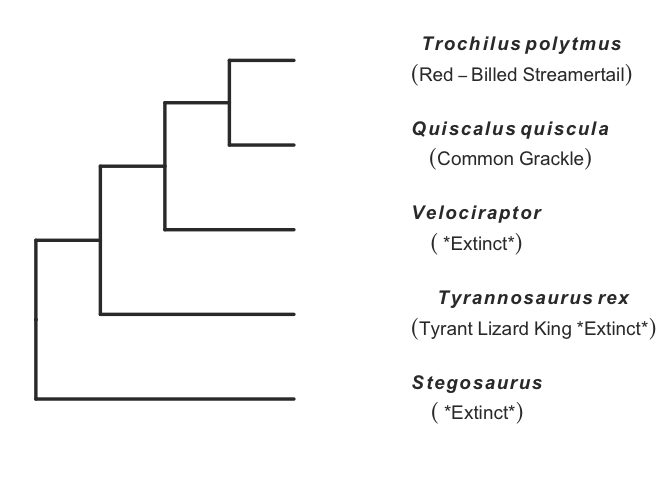
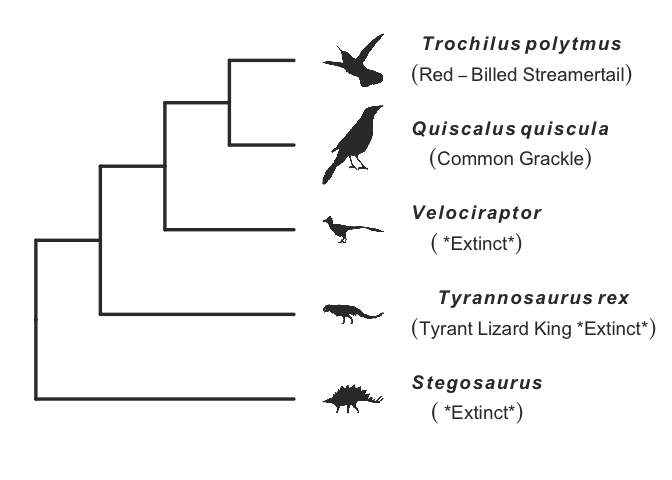
jfjsdfkl

diff --git a/docs/index.html b/docs/index.html
@@ -73,30 +73,45 @@
 <a href="#galacticedtools" class="anchor"></a>galacticEdTools</h1></div>
 <!-- badges: start -->
 
-<p>GalacticEdTools is an <a href="https://www.r-project.org/"><img src="reference/figures/Rlogo.svg" alt="R-logo" width="24px" height="auto"></a> package to support K-16 education and scicomm. Largely, these are functions developed to support lessons created by <a href="www.galacticpolymath.com">Galactic Polymath Education Studio</a>, and have been made available to the R community. Functions do a variety of things, from making it easy to generate a phylogeny that’s ready for biology presentations in minutes to turning any ggplot graph into a fun puzzle by enciphering the graph labels. There’s lots more to come!</p>
+<p>GalacticEdTools is an <a href="https://www.r-project.org/"><img src="reference/figures/Rlogo.svg" alt="R-logo" width="24px" height="auto"></a> package to support K-16 education and scicomm. This code was developed by <a href="www.galacticpolymath.com">Galactic Polymath Education Studio</a> to solve teaching and visualization challenges associated with our lessons. Functions do a variety of things, from making it easy to generate a dated phylogeny that’s ready for biology presentations in minutes to turning any ggplot graph into a fun puzzle by enciphering the graph labels. There’s lots more to come!</p>
 <div id="installation" class="section level2">
 <h2 class="hasAnchor">
 <a href="#installation" class="anchor"></a>Installation</h2>
 <p>You can install the released version of galacticEdTools from <a href="https://github.com/galacticpolymath/galacticEdTools">GitHub</a> with:</p>
 <div class="sourceCode" id="cb1"><pre class="downlit sourceCode r">
 <code class="sourceCode R"><span class="co"># install.packages("devtools") #install devtools if you don't have it</span>
-<span class="co"># devtools::install_github("galacticpolymath/galacticEdTools")</span>
+<span class="fu">devtools</span><span class="fu">::</span><span class="fu"><a href="https://devtools.r-lib.org//reference/remote-reexports.html">install_github</a></span><span class="op">(</span><span class="st">"galacticpolymath/galacticEdTools"</span><span class="op">)</span>
+<span class="co">#&gt; Using github PAT from envvar GITHUB_PAT</span>
+<span class="co">#&gt; Downloading GitHub repo galacticpolymath/galacticEdTools@HEAD</span>
+<span class="co">#&gt; </span>
+<span class="co">#&gt;      checking for file ‘/private/var/folders/7k/syghtz9531d10k_t4zrt39900000gp/T/RtmpNB7iuH/remotesf5ca4875f252/galacticpolymath-galacticEdTools-b1afa7e/DESCRIPTION’ ...  ✓  checking for file ‘/private/var/folders/7k/syghtz9531d10k_t4zrt39900000gp/T/RtmpNB7iuH/remotesf5ca4875f252/galacticpolymath-galacticEdTools-b1afa7e/DESCRIPTION’</span>
+<span class="co">#&gt;   ─  preparing ‘galacticEdTools’:</span>
+<span class="co">#&gt;      checking DESCRIPTION meta-information ...  ✓  checking DESCRIPTION meta-information</span>
+<span class="co">#&gt;   ─  checking for LF line-endings in source and make files and shell scripts</span>
+<span class="co">#&gt;   ─  checking for empty or unneeded directories</span>
+<span class="co">#&gt;   ─  building ‘galacticEdTools_0.0.2.tar.gz’</span>
+<span class="co">#&gt;      </span>
+<span class="co">#&gt; </span>
 <span class="co">#you may have to install a fair number of dependencies/updates (I'll work on streamlining this at some point)</span>
 
 <span class="co">#load it</span>
-<span class="co"># require(galacticEdTools) </span></code></pre></div>
+<span class="kw"><a href="https://rdrr.io/r/base/library.html">require</a></span><span class="op">(</span><span class="va"><a href="https://galacticpolymath.github.io/galacticEdTools">galacticEdTools</a></span><span class="op">)</span>
+<span class="co">#&gt; Loading required package: galacticEdTools</span>
+<span class="co">#&gt; Loading required package: datelife</span></code></pre></div>
 </div>
 <div id="example" class="section level2">
 <h2 class="hasAnchor">
 <a href="#example" class="anchor"></a>Example</h2>
-<p>Ever wanted to make a phylogeny to, say, show birds are <em>actually</em> dinosaurs? Did you end up freehanding it in Powerpoint? To teach evolution, we need to be able to make scientifically accurate trees on the fly. The showPhylo() function aims to make this as simple as possible, freeing you up to focus on building out the lesson around this evolutionary visualization.</p>
+<p>Ever wanted to make a phylogeny to—for example—show that birds are <em>actually</em> dinosaurs? Did you end up freehanding it in Powerpoint? To teach evolution, we need to be able to make scientifically accurate trees on the fly. The showPhylo() function aims to make this as simple as possible, freeing you up to focus on building out the lesson around this evolutionary visualization.</p>
 <p>So let’s pick some dinosaurs, a dino-actin’ bird like the common grackle, and a really improbable bird like the red-billed streamertail hummingbird. I’ll make a vector of these species’ scientific names.</p>
 <p>And with no changes to the plot, here’s what it should look like.</p>
 <div class="sourceCode" id="cb2"><pre class="downlit sourceCode r">
-<code class="sourceCode R"><span class="co">#plot(dinos)</span></code></pre></div>
+<code class="sourceCode R"><span class="fu"><a href="https://rdrr.io/r/graphics/plot.default.html">plot</a></span><span class="op">(</span><span class="va">dinos</span><span class="op">)</span></code></pre></div>
+<p><img src="reference/figures/README-first-dinophylo-1.png" width="100%"></p>
 <p>By default, pic=“wiki”, meaning taxonomic images are pulled in from the appertaining Wikipedia entry (if available). You can also use phyloPics (silhouettes, as shown below), or supply your own images. Check out the vignette for showPhyloPic() to learn about more customizations.</p>
 <div class="sourceCode" id="cb3"><pre class="downlit sourceCode r">
-<code class="sourceCode R"><span class="co">#plot(dino2)</span></code></pre></div>
+<code class="sourceCode R"><span class="fu"><a href="https://rdrr.io/r/graphics/plot.default.html">plot</a></span><span class="op">(</span><span class="va">dino2</span><span class="op">)</span></code></pre></div>
+<p><img src="reference/figures/README-phyloPic-dino-phylogeny-1.png" width="100%"></p>
 </div>
 </div>
   </div>

diff --git a/README.md b/README.md
@@ -26,21 +26,26 @@ You can install the released version of galacticEdTools from
 
 ``` r
 # install.packages("devtools") #install devtools if you don't have it
-# devtools::install_github("galacticpolymath/galacticEdTools")
+devtools::install_github("galacticpolymath/galacticEdTools")
+#> Using github PAT from envvar GITHUB_PAT
+#> Skipping install of 'galacticEdTools' from a github remote, the SHA1 (b1afa7e2) has not changed since last install.
+#>   Use `force = TRUE` to force installation
 #you may have to install a fair number of dependencies/updates (I'll work on streamlining this at some point)
 
 #load it
-# require(galacticEdTools) 
+require(galacticEdTools)
+#> Loading required package: galacticEdTools
+#> Loading required package: datelife
 ```
 
 ## Example
 
-Ever wanted to make a phylogeny to, say, show birds are *actually*
-dinosaurs? Did you end up freehanding it in Powerpoint? To teach
-evolution, we need to be able to make scientifically accurate trees on
-the fly. The showPhylo() function aims to make this as simple as
-possible, freeing you up to focus on building out the lesson around this
-evolutionary visualization.
+Ever wanted to make a phylogeny to—for example—show that birds are
+*actually* dinosaurs? Did you end up freehanding it in Powerpoint? To
+teach evolution, we need to be able to make scientifically accurate
+trees on the fly. The showPhylo() function aims to make this as simple
+as possible, freeing you up to focus on building out the lesson around
+this evolutionary visualization.
 
 So let’s pick some dinosaurs, a dino-actin’ bird like the common
 grackle, and a really improbable bird like the red-billed streamertail
@@ -49,8 +54,10 @@ hummingbird. I’ll make a vector of these species’ scientific names.
 And with no changes to the plot, here’s what it should look like.
 
 ``` r
-#plot(dinos)
+plot(dinos)
 ```
+
+<img src="man/figures/README-first-dinophylo-1.png" width="100%" />
 
 By default, pic=“wiki”, meaning taxonomic images are pulled in from the
 appertaining Wikipedia entry (if available). You can also use phyloPics
@@ -58,5 +65,7 @@ appertaining Wikipedia entry (if available). You can also use phyloPics
 vignette for showPhyloPic() to learn about more customizations.
 
 ``` r
-#plot(dino2)
+plot(dino2)
 ```
+
+<img src="man/figures/README-phyloPic-dino-phylogeny-1.png" width="100%" />
